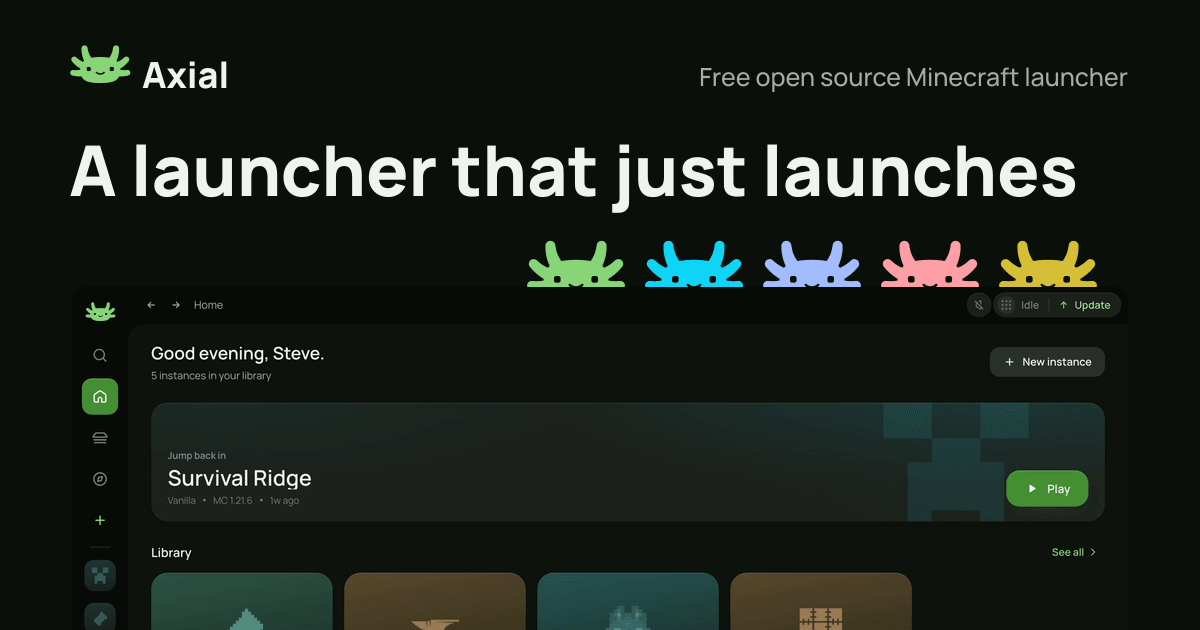
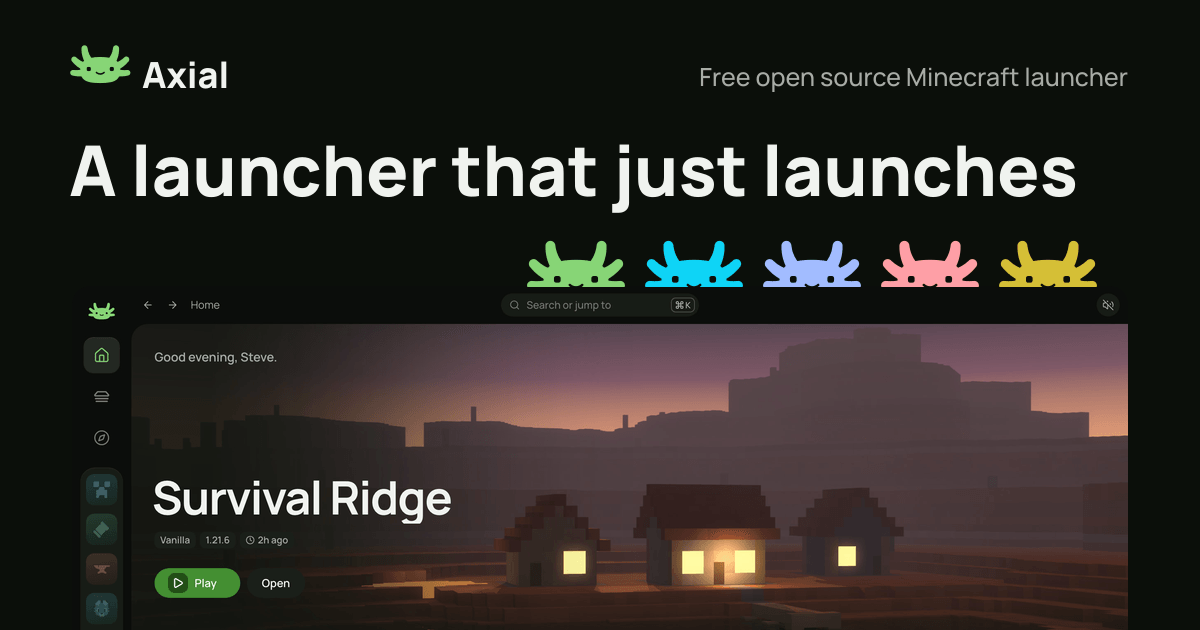
feat: show the current launcher home in the hero screenshot
Replace the pre-rebrand capture with the Home screen from the app's
current build: the featured instance over its drawn landscape and a
library with one Fabric, Forge, NeoForge and Quilt instance. The new
capture already carries the axolotl, so drop the overlay that hid the
old sidebar mark on the page and on the sharing cards, and regenerate
both cards.

diff --git a/src/styles/hero.css b/src/styles/hero.css
@@ -150,10 +150,6 @@
   mask-image: linear-gradient(to bottom, #000 58%, transparent 100%);
 }
 
-.shot-in {
-  position: relative;
-}
-
 .shot-in > img {
   display: block;
   width: 100%;
@@ -162,17 +158,4 @@
   aspect-ratio: 2 / 1;
   object-fit: cover;
   object-position: top;
-}
-
-.shot-brand {
-  position: absolute;
-  top: 2%;
-  left: 1.2%;
-  display: grid;
-  place-items: center;
-  width: 3%;
-  aspect-ratio: 1;
-  background: #080b06;
-  color: var(--green);
-  --axo-hole: #080b06;
 }

diff --git a/README.md b/README.md
@@ -44,9 +44,11 @@ are localized 1200 × 630 PNGs at `public/brand/og-en.png` and `og-es.png`.
 Run `pnpm og` after changing their copy or design; the generator uses font
 outlines for consistent rendering and keeps its source fonts in `assets/og/`.
 
-The product screenshot predates the rebrand. A positioned logo overlay hides its
-retired sidebar mark; remove `.screenshot-brand` when replacing the capture with
-a new screenshot from the app.
+The hero screenshot, `src/assets/images/launcher-home.jpg`, is a 2560 × 1600
+capture (1280 × 800 at 2×) of the app's Home screen. It comes from the frontend's
+mock mode (`pnpm dev:mock` in the app's `frontend/`) with the mock data staged as
+an idle library: one featured vanilla instance and one Fabric, Forge, NeoForge and
+Quilt instance each. Run `pnpm og` after replacing it.
 
 ## Code organization and checks
 
